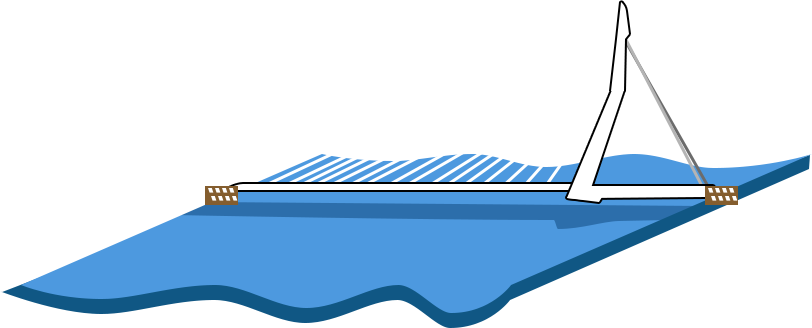
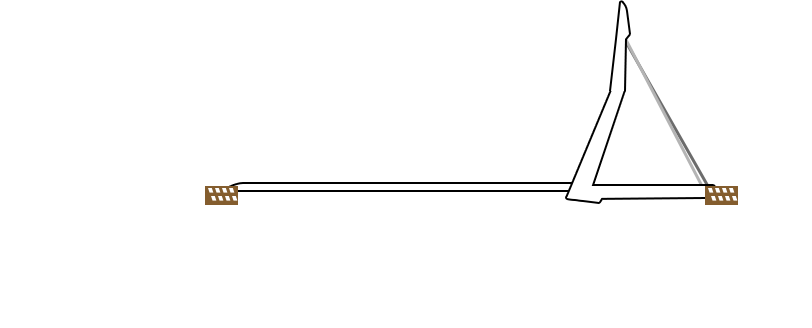
Adding more animations and details

Changed region(s): [[0.0, 0.4573, 1.0, 1.0]]

diff --git a/client/src/components/RaceThemes/Decorations/Decoration/Decoration.tsx b/client/src/components/RaceThemes/Decorations/Decoration/Decoration.tsx
@@ -64,6 +64,10 @@ function Decoration(props: Props) {
             case "rotterdamBridge":
                 setDecorationHeight(curr => widthRatio * 200)
                 break
+
+            case "bridgeRiver":
+                setDecorationHeight(curr => widthRatio * 200)
+                break
             
             case "thePier":
                 setDecorationHeight(curr => widthRatio * 120)
@@ -107,7 +111,7 @@ function Decoration(props: Props) {
             {props.points.map((coordinate) => (
                 <div
                     key={props.points.indexOf(coordinate)}
-                    style={{...getPositionStyle(coordinate)}}
+                    style={{...getPositionStyle(coordinate), position: "absolute"}}
                     className={props.class + " decoration"}
                 >
                     <img src={props.sprite} 

diff --git a/client/src/components/RaceThemes/Maps/TrainMaps.ts b/client/src/components/RaceThemes/Maps/TrainMaps.ts
@@ -2,6 +2,7 @@ import Sprites from "../Sprites/TrainThemeSprites"
 import { PercentCoordinate, RaceMap } from "../SharedUtils"
 import BeachSea from "./SpecialDecorationComponents/BeachSea/BeachSea"
 import Seagull from "./SpecialDecorationComponents/Seagull/Seagull"
+import BridgeRiver from "./SpecialDecorationComponents/RiverBridge/BridgeRiver"
 
 const mapOne: RaceMap = {
             backgroundColor: "#fff6e4",
@@ -310,7 +311,7 @@ const netherlandsMap2: RaceMap = {
             sprite: Sprites.cheese,
         },
     ],
-    components: [BeachSea(), Seagull()],
+    components: [BeachSea(), Seagull(), BridgeRiver()],
     path: [
         { xPercent: 0.235, yPercent: 0.5 },
         { xPercent: 0.1, yPercent: 0.5 },

diff --git a/client/src/components/RaceThemes/Maps/SpecialDecorationComponents/RiverBridge/BridgeRiver.css b/client/src/components/RaceThemes/Maps/SpecialDecorationComponents/RiverBridge/BridgeRiver.css
@@ -1,0 +1,27 @@
+.bridge-river-container {
+    position: absolute;
+    bottom: 0;
+    left: 21%;
+    height: auto;
+    width: 33%;
+
+    animation: water-distort 3s ease-in-out infinite;
+}
+
+
+.bridge-river-container img {
+    height: 100%;
+    width: 100%;
+}
+
+@keyframes water-distort {
+    0% {
+        transform: scale(1.01, 0.97) skewX(-0.7deg) skewY(0.3deg);
+    }
+    50% {
+        transform: scale(0.98, 1.03) skewX(0.7deg) skewY(-0.3deg);
+    }
+    100% {
+        transform: scale(1.01, 0.97) skewX(-0.7deg) skewY(0.3deg);
+    }
+}

diff --git a/client/src/components/RaceThemes/Sprites/TrainThemeSprites.tsx b/client/src/components/RaceThemes/Sprites/TrainThemeSprites.tsx
@@ -31,6 +31,7 @@ import OudeKerk from "../../../img/maps/train/oude_kerk.png"
 
 // Rotterdam
 import RotterdamBridge from "../../../img/maps/train/bridge.png"
+import BridgeRiver from "../../../img/maps/train/bridge_river.png"
 import CruiseShip from "../../../img/maps/train/cruise/cruise.gif"
 
 // The Hague
@@ -81,6 +82,7 @@ export default {
     // Rotterdam
     rotterdamBridge: RotterdamBridge,
     cruiseShip: CruiseShip,
+    bridgeRiver: BridgeRiver,
     // The Hague
     thePier: ThePier,
     seagull: Seagull,

diff --git a/client/src/components/RaceThemes/Maps/SpecialDecorationComponents/RiverBridge/BridgeRiver.tsx b/client/src/components/RaceThemes/Maps/SpecialDecorationComponents/RiverBridge/BridgeRiver.tsx
@@ -1,0 +1,12 @@
+import TrainThemeSprites from "../../../Sprites/TrainThemeSprites";
+import "./BridgeRiver.css"
+
+function BridgeRiver() {
+    return(
+        <div className="bridge-river-container">
+            <img src={TrainThemeSprites.bridgeRiver} alt="Bridge River" />
+        </div>
+    )
+}
+
+export default BridgeRiver;

diff --git a/client/src/components/RaceThemes/RaceTheme.css b/client/src/components/RaceThemes/RaceTheme.css
@@ -36,6 +36,7 @@
 .goudaKerk,
 .cheese,
 .cheesePie,
+.bridgeRiver,
 .cheesePiece {
     position: absolute;
 }
